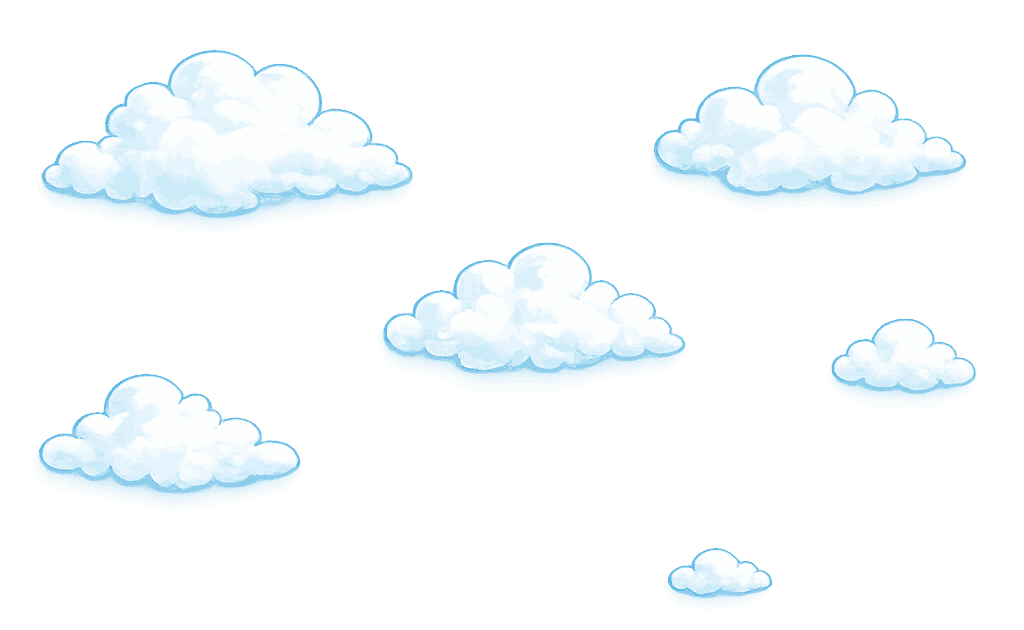
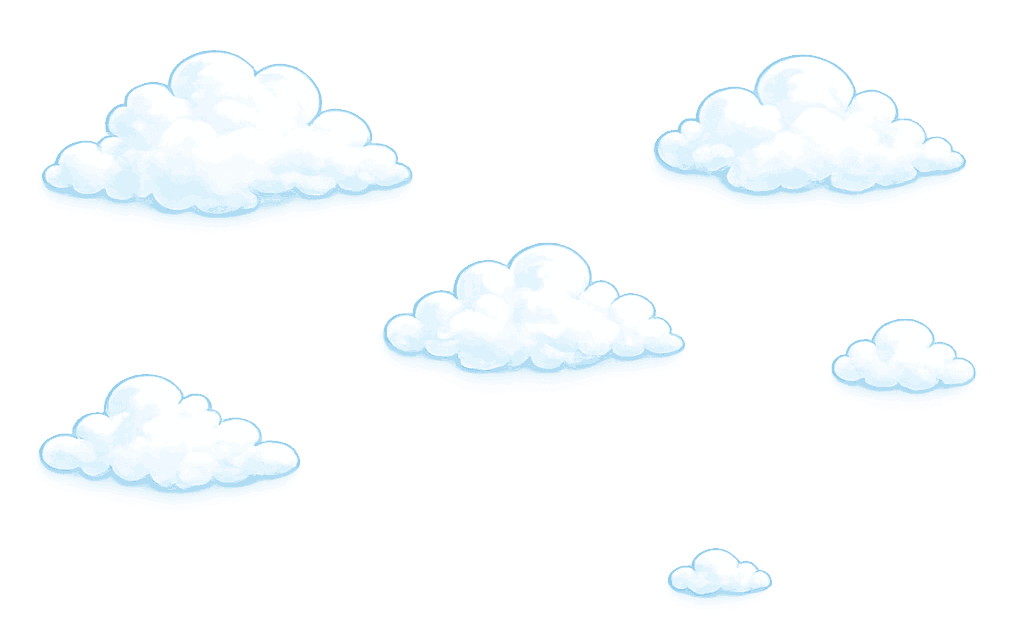
Particles

diff --git a/apps/web-client/src/views/canvas/ParticlesRenderer.ts b/apps/web-client/src/views/canvas/ParticlesRenderer.ts
@@ -1,0 +1,108 @@
+import { assets } from "../../assets/assets.js";
+
+type Particle = {
+  x: number;
+  y: number;
+  baseY: number;
+
+  size: number;
+
+  speedX: number;
+  speedY: number;
+
+  rotation: number;
+  rotationSpeed: number;
+
+  alpha: number;
+
+  swayOffset: number;
+  swaySpeed: number;
+  swayAmount: number;
+
+  image: HTMLImageElement;
+};
+
+const PARTICLE_SPRITES = [
+  "/environments/leaf1.png",
+  "/environments/leaf2.png",
+  "/environments/leaf3.png",
+  "/environments/leaf4.png",
+  "/environments/leaf5.png",
+  "/environments/leaf6.png",
+] as const;
+
+export class ParticlesRenderer {
+  private readonly particles: Particle[] = [];
+
+  private time = 0;
+
+  public constructor(count: number) {
+    for (let i = 0; i < count; i++) {
+      this.particles.push(this.createParticle(Math.random() * 1600, Math.random() * 900));
+    }
+  }
+
+  public draw(ctx: CanvasRenderingContext2D, canvas: HTMLCanvasElement, deltaTime: number): void {
+    this.time += deltaTime;
+
+    for (const particle of this.particles) {
+      particle.x += particle.speedX * deltaTime;
+
+      particle.baseY += particle.speedY * deltaTime;
+
+      particle.y = particle.baseY + Math.sin(this.time * particle.swaySpeed + particle.swayOffset) * particle.swayAmount;
+
+      particle.rotation += particle.rotationSpeed * deltaTime;
+
+      if (particle.x > canvas.width + particle.size || particle.y > canvas.height + particle.size || particle.y < -particle.size) {
+        Object.assign(particle, this.createParticle(-particle.size, Math.random() * canvas.height * 0.75));
+      }
+
+      this.drawParticle(ctx, particle);
+    }
+  }
+
+  private drawParticle(ctx: CanvasRenderingContext2D, particle: Particle): void {
+    ctx.save();
+
+    ctx.globalAlpha = particle.alpha;
+
+    ctx.translate(particle.x, particle.y);
+    ctx.rotate(particle.rotation);
+
+    ctx.drawImage(particle.image, -particle.size / 2, -particle.size / 2, particle.size, particle.size);
+
+    ctx.restore();
+  }
+
+  private createParticle(x: number, y: number): Particle {
+    return {
+      x,
+      y,
+
+      baseY: y,
+
+      size: 8 + Math.random() * 18,
+
+      speedX: 12 + Math.random() * 28,
+      speedY: -6 + Math.random() * 12,
+
+      rotation: Math.random() * Math.PI * 2,
+      rotationSpeed: -1.5 + Math.random() * 3,
+
+      alpha: 0.35 + Math.random() * 0.45,
+
+      swayOffset: Math.random() * Math.PI * 2,
+      swaySpeed: 1 + Math.random() * 2,
+      swayAmount: 6 + Math.random() * 14,
+
+      image: this.getRandomSprite(),
+    };
+  }
+
+  private getRandomSprite(): HTMLImageElement {
+    const path = PARTICLE_SPRITES[Math.floor(Math.random() * PARTICLE_SPRITES.length)];
+
+    return assets.get(path);
+  }
+}

diff --git a/apps/web-client/src/views/canvas/CanvasView.ts b/apps/web-client/src/views/canvas/CanvasView.ts
@@ -5,6 +5,7 @@ import { BackgroundRenderer } from "./BackgroundRenderer.js";
 import { EntityRenderer } from "./EntityRenderer.js";
 import { FloatingTextRenderer } from "./FloatingTextRenderer.js";
 import { GroundRenderer } from "./GroundRenderer.js";
+import { ParticlesRenderer } from "./ParticlesRenderer.js";
 import { PlayerRenderer } from "./PlayerRenderer.js";
 import { ScreenShake } from "./ScreenShake.js";
 import { resizeCanvasToRoot } from "./viewport.js";
@@ -15,12 +16,17 @@ export class CanvasView implements GameView {
 
   private readonly background = new BackgroundRenderer();
   private readonly ground = new GroundRenderer();
+  private readonly particles = new ParticlesRenderer(10);
+
   private readonly entities: EntityRenderer;
   private readonly players: PlayerRenderer;
+
   private readonly screenShake = new ScreenShake();
   private readonly floatingTexts = new FloatingTextRenderer();
 
   private t: Translator = (key) => key;
+
+  private lastFrameTime = performance.now();
 
   public constructor(
     private readonly root: HTMLElement,
@@ -30,11 +36,13 @@ export class CanvasView implements GameView {
     this.players = new PlayerRenderer(options.debug);
 
     this.canvas = document.createElement("canvas");
+
     root.replaceChildren(this.canvas);
 
     resizeCanvasToRoot(this.canvas, this.root);
 
     const context = this.canvas.getContext("2d");
+
     if (context === null) {
       throw new Error("Canvas 2D context is unavailable");
     }
@@ -47,10 +55,19 @@ export class CanvasView implements GameView {
 
     resizeCanvasToRoot(this.canvas, this.root);
 
+    const now = performance.now();
+
+    const rawDelta = (now - this.lastFrameTime) / 1000;
+    const deltaTime = Math.min(rawDelta, 0.033);
+
+    this.lastFrameTime = now;
+
     if (snapshot === undefined) {
       ctx.fillStyle = "#87ceeb";
       ctx.fillRect(0, 0, this.canvas.width, this.canvas.height);
+
       this.drawCenteredText(this.t("connecting"));
+
       return;
     }
 
@@ -64,9 +81,12 @@ export class CanvasView implements GameView {
     const shake = this.screenShake.getOffset();
 
     ctx.save();
+
     ctx.translate(shake.x, shake.y);
 
     this.ground.draw(ctx, this.canvas, snapshot);
+
+    this.particles.draw(ctx, this.canvas, deltaTime);
 
     for (const entity of snapshot.entities) {
       this.entities.draw(ctx, this.canvas.width, snapshot, entity);
@@ -91,7 +111,9 @@ export class CanvasView implements GameView {
     ctx.fillStyle = "#111111";
     ctx.font = "24px sans-serif";
     ctx.textAlign = "center";
+
     ctx.fillText(text, this.canvas.width / 2, this.canvas.height / 2);
+
     ctx.textAlign = "start";
   }
 }

diff --git a/apps/web-client/src/views/canvas/GroundRenderer.ts b/apps/web-client/src/views/canvas/GroundRenderer.ts
@@ -2,14 +2,16 @@ import type { GameSnapshot } from "@smashing-cats/protocol";
 import { assets } from "../../assets/assets.js";
 
 const TILE_PATH = "/environments/ground.png";
-const TILE_WIDTH = 400;
-const GROUND_OFFSET_Y = -20;
+const TILE_WIDTH = 800;
+
+const GROUND_OFFSET_Y = -55;
+const DRAW_OFFSET_Y = 0;
 
 export class GroundRenderer {
   public draw(ctx: CanvasRenderingContext2D, canvas: HTMLCanvasElement, snapshot: GameSnapshot): void {
     const image = assets.get(TILE_PATH);
 
-    const groundY = snapshot.world.groundY + GROUND_OFFSET_Y;
+    const groundY = snapshot.world.groundY + GROUND_OFFSET_Y + DRAW_OFFSET_Y;
 
     if (!this.isReady(image)) {
       this.drawFallback(ctx, canvas, groundY);
@@ -25,38 +27,35 @@ export class GroundRenderer {
     for (let tileIndex = firstTileIndex; offsetX + (tileIndex - firstTileIndex) * TILE_WIDTH < canvas.width + TILE_WIDTH; tileIndex++) {
       const x = offsetX + (tileIndex - firstTileIndex) * TILE_WIDTH;
 
-      this.drawTileColumn(ctx, image, x, groundY, tileHeight, tileIndex);
+      this.drawTile(ctx, image, x, groundY, tileHeight, tileIndex);
     }
   }
 
-  private drawTileColumn(
+  private drawTile(
     ctx: CanvasRenderingContext2D,
     image: HTMLImageElement,
     x: number,
-    groundY: number,
+    y: number,
     tileHeight: number,
     tileIndex: number,
   ): void {
     const drawX = Math.round(x);
+    const drawY = Math.round(y);
     const drawWidth = TILE_WIDTH + 1;
+    const drawHeight = Math.ceil(tileHeight);
     const shouldMirror = Math.abs(tileIndex) % 2 === 1;
 
-    for (let y = groundY; y < ctx.canvas.height; y += tileHeight) {
-      const drawY = Math.round(y);
-      const drawHeight = Math.ceil(tileHeight);
+    ctx.save();
 
-      ctx.save();
-
-      if (shouldMirror) {
-        ctx.translate(drawX + drawWidth, drawY);
-        ctx.scale(-1, 1);
-        ctx.drawImage(image, 0, 0, drawWidth, drawHeight);
-      } else {
-        ctx.drawImage(image, drawX, drawY, drawWidth, drawHeight);
-      }
-
-      ctx.restore();
+    if (shouldMirror) {
+      ctx.translate(drawX + drawWidth, drawY);
+      ctx.scale(-1, 1);
+      ctx.drawImage(image, 0, 0, drawWidth, drawHeight);
+    } else {
+      ctx.drawImage(image, drawX, drawY, drawWidth, drawHeight);
     }
+
+    ctx.restore();
   }
 
   private isReady(image: HTMLImageElement): boolean {

diff --git a/apps/web-client/src/views/canvas/BackgroundRenderer.ts b/apps/web-client/src/views/canvas/BackgroundRenderer.ts
@@ -7,18 +7,22 @@ type ParallaxLayer = {
   y: number;
   height: number;
   mirror?: boolean;
+  alpha?: number;
 };
 
 const LAYERS: ParallaxLayer[] = [
   { path: "/environments/sky.png", speed: 0, y: 0, height: 1 },
-  { path: "/environments/clouds.png", speed: 0.05, y: 20, height: 0.45 },
-  { path: "/environments/mountains.png", speed: 0.10, y: 150, height: 0.35, mirror: true },
-  { path: "/environments/forest.png", speed: 0.6, y: 190, height: 0.35, mirror: false },
+  { path: "/environments/mountains.png", speed: 0.05, y: 160, height: 0.35, mirror: true },
+  { path: "/environments/clouds.png", speed: 0.1, y: 20, height: 0.4 },
+  { path: "/environments/fog.png", speed: 0.3, y: 160, height: 0.3, mirror: true },
+  { path: "/environments/forest.png", speed: 0.6, y: 175, height: 0.35, mirror: false },
+  { path: "/environments/forest_front.png", speed: 0.85, y: 360, height: 0.1 },
 ];
 
 export class BackgroundRenderer {
   public draw(ctx: CanvasRenderingContext2D, canvas: HTMLCanvasElement, snapshot: GameSnapshot): void {
-    ctx.imageSmoothingEnabled = false;
+    ctx.imageSmoothingEnabled = true;
+    ctx.imageSmoothingQuality = "high";
 
     ctx.fillStyle = "#87ceeb";
     ctx.fillRect(0, 0, canvas.width, canvas.height);
@@ -48,6 +52,9 @@ export class BackgroundRenderer {
     const firstTileIndex = Math.floor(scroll / width);
     const offsetX = -(scroll - firstTileIndex * width);
 
+    ctx.save();
+    ctx.globalAlpha = layer.alpha ?? 1;
+
     for (let tileIndex = firstTileIndex; offsetX + (tileIndex - firstTileIndex) * width < canvas.width + width; tileIndex++) {
       const x = offsetX + (tileIndex - firstTileIndex) * width;
       const drawX = Math.round(x);
@@ -66,5 +73,7 @@ export class BackgroundRenderer {
 
       ctx.restore();
     }
+
+    ctx.restore();
   }
 }

diff --git a/apps/web-client/src/assets/assetManifest.ts b/apps/web-client/src/assets/assetManifest.ts
@@ -1,8 +1,19 @@
 export const IMAGE_ASSETS = [
   // Environments
   "/environments/sky.png",
-  // "/environments/clouds.png",
+  "/environments/clouds.png",
+  "/environments/mountains.png",
+  "/environments/fog.png",
+  "/environments/forest.png",
+  "/environments/forest_front.png",
   "/environments/ground.png",
+
+  "/environments/leaf1.png",
+  "/environments/leaf2.png",
+  "/environments/leaf3.png",
+  "/environments/leaf4.png",
+  "/environments/leaf5.png",
+  "/environments/leaf6.png",
 
   // UI
   "/favicon.png",
